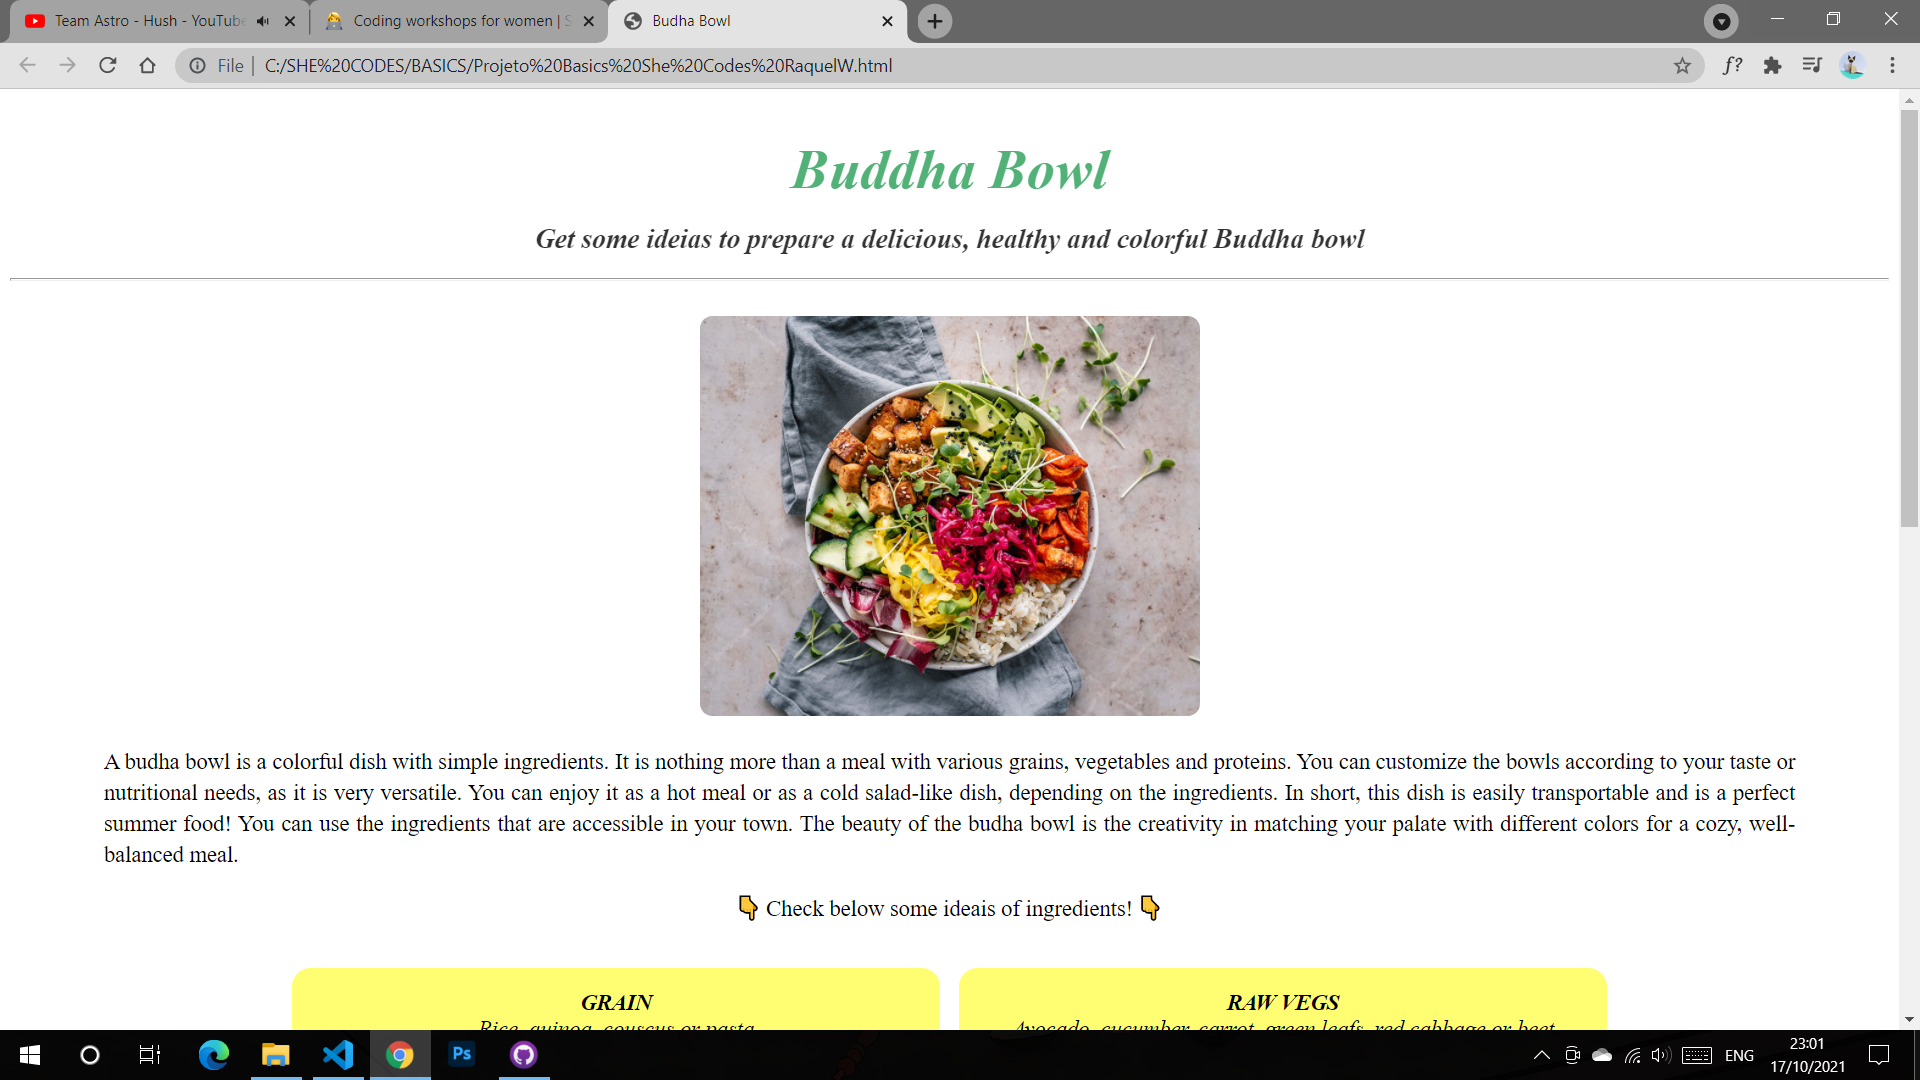
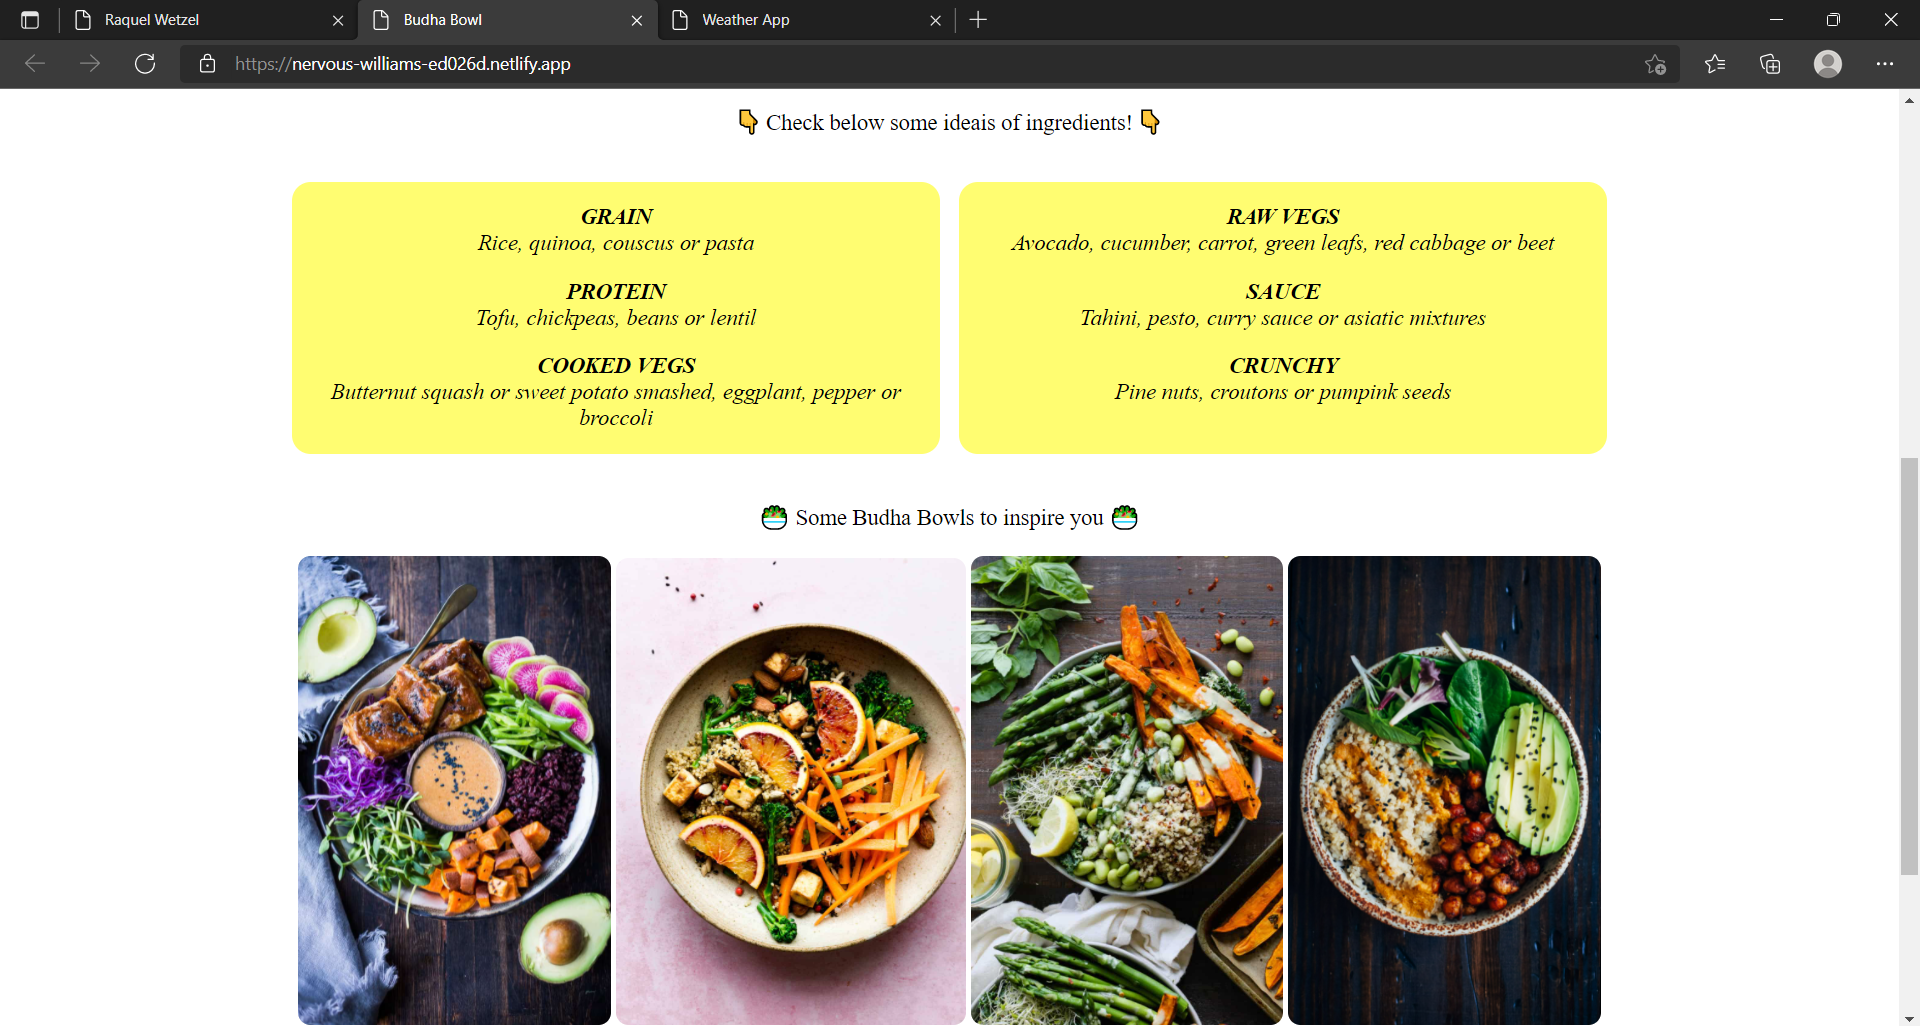
Remove image-home, change the hero

diff --git a/index.html b/index.html
@@ -92,8 +92,7 @@
     <header>
         <div class="container-fluid text-center">
         <div class="hero">
-          <div class="row">
-            <div class="col-lg-8">
+          
               <div class="introduction">
                 <h1>
                   HELLO. My name is Raquel. Front End developer based in Lisbon,
@@ -109,20 +108,10 @@
                 </div>
               </div>
             </div>
-            <div class="col-lg-3">
-              <img
-                src="/images/trianglo-home-about.png"
-                class="logo-home img-fluid"
-                alt="image-home"
-                title="image-home"
-                width="400px"
-              />
-            </div>
-          </div>
-        </div>
+      
       </header>
       <section>
-        <div class="container-fluid text-center mb-5 px-5">
+        <div class="container-fluid text-center mb-5">
        <h1> < CODING PROJECTS > </h1>
 
         <div class="buddhabowl-project">

diff --git a/css/style.css b/css/style.css
@@ -1,6 +1,6 @@
 body {
   font-family: "Roboto", sans-serif;
-  padding-top: 95px;
+  padding: 95px 95px 0px;
   margin: 0px 2px 2px 2px;
   border: black solid 4px;
   border-top: none;
@@ -26,6 +26,7 @@ header .hero {
 header .introduction {
   padding: 115px 100px;
   text-align: justify;
+  font-size: 3rem;
 }
 
 .about-button {
@@ -51,14 +52,11 @@ header .about-me-title,
   font-size: 60px;
   font-weight: bolder;
 }
-header .logo-home {
-  position: relative;
-  bottom: -70px;
-}
 
 section h1 {
   font-size: 55px;
   margin-bottom: 60px;
+  font-weight: bold;
 }
 
 section p {
@@ -224,7 +222,7 @@ footer p {
 
 @media (max-width: 576px) {
   body {
-    padding-top: 70px;
+    padding: 70px 0px 0px;
   }
   .logo {
     width: 50px;

diff --git a/about.html b/about.html
@@ -91,10 +91,10 @@
     <div class="container text-center">
       <header>
         <div class="about">
-          <h1 class="about-me-title">ABOUT ME</h1>
+          <h1 class="about-me-title"> < ABOUT ME > </h1>
           <img
             src="/images/trianglo-home-about.png"
-            width="400px"
+            width="350px"
             alt="image-about-me"
             class="image-about img-fluid"
           />

diff --git a/contact.html b/contact.html
@@ -91,7 +91,7 @@
     <div class="container text-center">
       <header>
         
-        <h1 class="contact-me-title">CONTACT ME</h1>
+        <h1 class="contact-me-title"> < CONTACT ME > </h1>
       </header>
       <section>
         <div class="contact pb-6">
